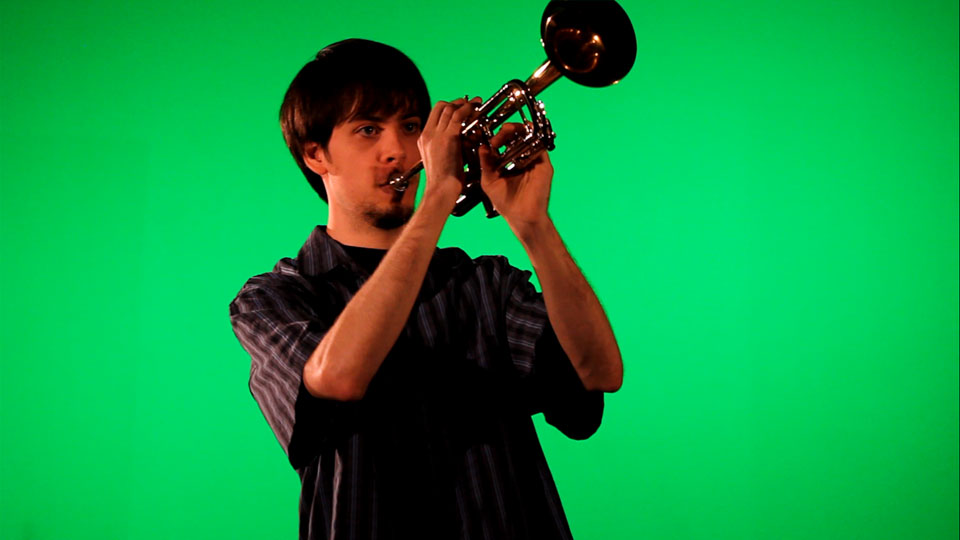
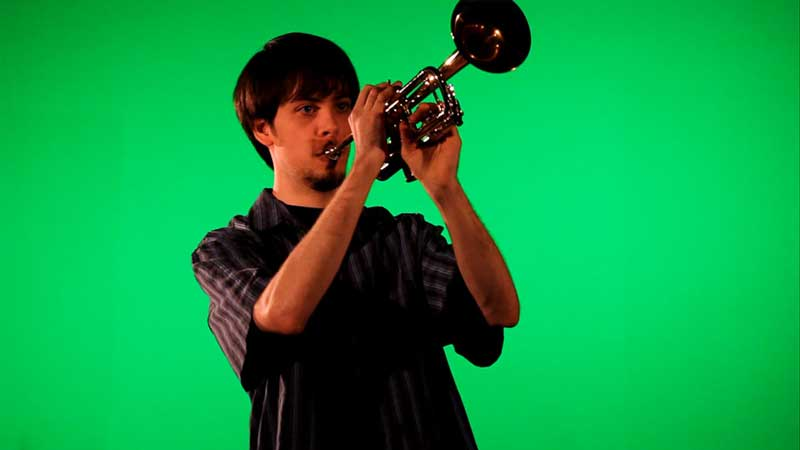
optimized images, added caption and title to the gallery

diff --git a/src/app/components/galleryModal/gallery.modal.html b/src/app/components/galleryModal/gallery.modal.html
@@ -11,7 +11,15 @@
     </md-toolbar>
     <md-dialog-content>
       <div class="md-dialog-content">
-        <div afkl-lazy-image="{{vm.images[vm.index]}}" class="afkl-lazy-wrapper full-width"></div>
+        <div afkl-lazy-image="{{vm.images[vm.index].imgSrc}}" class="afkl-lazy-wrapper full-width"></div>
+        <div class="image-description">
+          <p class="md-title">
+            {{vm.images[vm.index].title}}
+          </p>
+          <p class="md-body-1">
+             {{vm.images[vm.index].caption}}
+          </p>
+        </div>
       </div>
     </md-dialog-content>
     <md-dialog-actions layout="row">

diff --git a/src/app/projects/project.view.html b/src/app/projects/project.view.html
@@ -20,7 +20,7 @@
         <div layout="row" layout-wrap class="image-gallery">
           <div flex="50" class="md-padding portfolio-gallery-image animate-repeat animate-fade-in animate-move-up"
            ng-repeat="image in vm.project.thumbs" animate-on-load>
-            <div afkl-lazy-image="{{image}}" class="afkl-lazy-wrapper full-width" ng-click="vm.openGallery($event, $index);"></div>
+            <div afkl-lazy-image="{{image.imgSrc}}" class="afkl-lazy-wrapper full-width" ng-click="vm.openGallery($event, $index);"></div>
           </div>
         </div>
       </div>

diff --git a/src/app/components/galleryModal/gallery.scss b/src/app/components/galleryModal/gallery.scss
@@ -3,3 +3,15 @@
     padding: 0px;
   }
 }
+.image-description {
+  bottom: 56px;
+  position: fixed;
+  width: calc(100% - 2em);
+  padding: 1em;
+  background-color: rgba(0, 0, 0, 0.15);
+  color: #fff;
+  text-shadow: 1px 1px 1px rgba(0, 0, 0, 0.54);
+  p {
+    margin: 0;
+  }
+}
